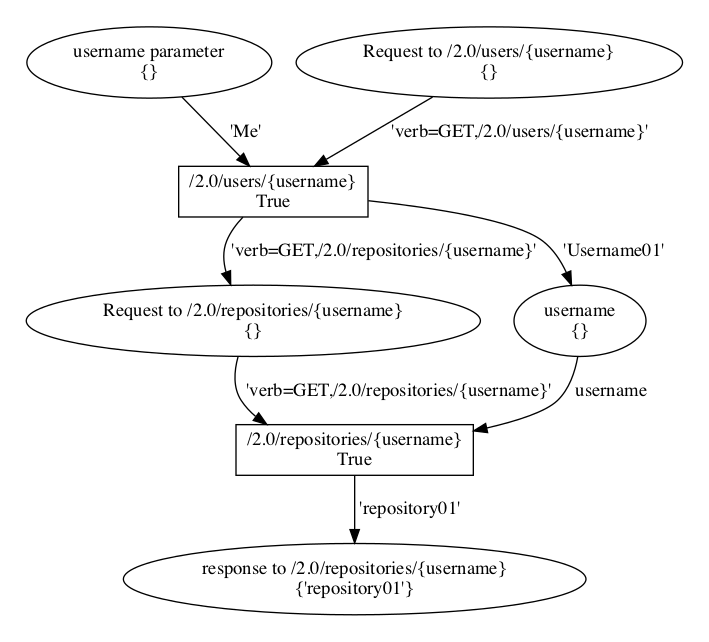
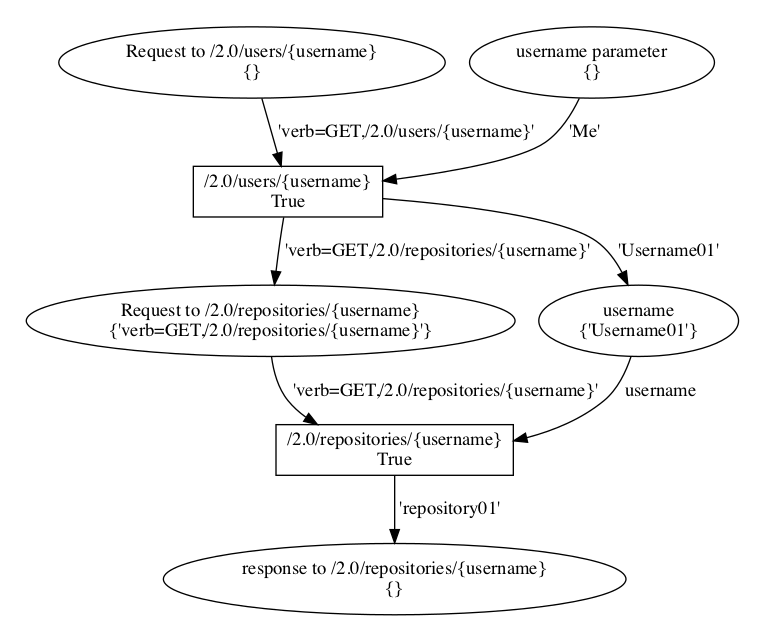
feat: create POC to JuiceShop example

diff --git a/snakes_juice_shop_01.py b/snakes_juice_shop_01.py
@@ -1,0 +1,146 @@
+import json
+from coloured_token import ColouredToken
+from numpy import place
+from log_utils import LogUtils
+import snakes.plugins
+snakes.plugins.load("gv", "snakes.nets", "nets")
+from nets import *
+
+
+# Instruções no livro Web Scraping com Pyhton
+# source venv/bin/activate
+
+# loading log
+logs_file = open('logs/combined_login.json')
+logs_json = json.load(logs_file)
+logs_file.close()
+
+def create_transition_and_basic_places(petri_net, uri_login):
+    place_req = Place("Req-"+uri_login, [])
+
+    # creating transition
+    transition =  Transition(uri_login)
+
+    # creating outputs to the transition
+    place_status = Place("Status-"+uri_login, [])
+
+    # conecting places to the transtion
+    petri_net.add_place(place_req)
+    petri_net.add_place(place_status)
+    petri_net.add_transition(transition)
+    petri_net.add_input(place_req.name, transition.name, Variable("request"))
+    petri_net.add_output(place_status.name, transition.name, Variable("status"))
+
+    return transition
+
+
+def create_petri_net():
+    # constants
+    uri_login =  "/rest/user/login"
+
+    petri_net = PetriNet('Juice Shop')
+    
+    # transition 1
+    # creating basic structure
+    transition_1 = create_transition_and_basic_places(petri_net, uri_login)
+
+    # creating inputs to the transition 1
+    place_input_email = Place("email", [])
+    place_input_password = Place("password", [])
+
+    # creating outputs to the transition 1
+    place_output_authentication = Place("authentication", [])
+    place_input_output_bid = Place("bid", [])
+
+    # conecting places to the transtion 1
+    petri_net.add_place(place_input_email)
+    petri_net.add_place(place_input_password)
+    petri_net.add_place(place_output_authentication)
+    petri_net.add_place(place_input_output_bid)
+
+    petri_net.add_input(place_input_email.name, transition_1.name, Variable("email"))
+    petri_net.add_input(place_input_password.name, transition_1.name, Variable("password"))
+    petri_net.add_output(place_output_authentication.name, transition_1.name, Variable("authentication"))
+    petri_net.add_output(place_input_output_bid.name, transition_1.name, Expression("authentication.get_element_from_dict('bid')"))
+
+    # transition 2
+    uri_login =  "/rest/basket/{basketId}"
+    transition_2 = create_transition_and_basic_places(petri_net, uri_login)
+    petri_net.add_input(place_input_output_bid.name, transition_2.name, Variable("email"))
+
+    return petri_net, transition_1
+
+# return true if the URIs are the same
+# ex: "/rest/basket/6" and "/rest/basket/{basketId}"
+def compare_uri_with_model(model_uri, uri):
+    model_uri_splited = model_uri.split('/')
+    uri_splited = uri.split('/')
+    if (len(model_uri_splited) == len(uri_splited)):
+        for i in range(len(model_uri_splited)):
+            if (model_uri_splited[i] != uri_splited[i]):
+                if not ('{' in model_uri_splited[i]):
+                    return False
+    else:
+        return False
+
+
+    return True
+
+
+def get_place_by_name(petri_net, name):
+    return [x for x in petri_net.place() if x.name == name][0]
+
+
+def fill_input_places(petri_net, log_json):
+    if (log_json.get('uri') in [x.name for x in petri_net.transition()]):
+        place_req_name='Req-'+log_json.get('uri')
+        #place = [x for x in petri_net.place() if x.name == place_req_name][0]
+        place = get_place_by_name(petri_net, place_req_name)
+        #place.tokens.add(json.dumps(LogUtils.create_request_line_from_log(log_json)))
+        place.tokens.add(ColouredToken(LogUtils.create_request_line_from_log(log_json)))
+
+        # given a transistion, check if we have some input to set
+        request_body_parameter_names = [*log_json.get('requestBody').keys()] # convert dict to array
+        transition = [x for x in petri_net.transition() if x.name == log_json.get('uri')][0]
+        places = transition.input()
+        for parameter_name in request_body_parameter_names:
+            for place in places:
+                if place[0].name == parameter_name:
+                    place[0].add(ColouredToken(LogUtils.create_data_from_log(log_json, parameter_name)))
+                    continue
+    else:
+        for transition in petri_net.transition():
+            if (compare_uri_with_model(transition.name, log_json.get('uri') )):
+                place_req_name='Req-'+transition.name
+                place = get_place_by_name(petri_net, place_req_name)
+                place.tokens.add(ColouredToken(LogUtils.create_request_line_from_log(log_json)))
+    
+
+
+
+def main():
+    petri_net, transition_1 = create_petri_net()
+    petri_net.draw("value-0.png")
+    
+    #for log_json in logs_json:
+    #    fill_input_places(petri_net, log_json)
+    log_line = logs_json[1]
+    fill_input_places(petri_net, log_line)
+    #fill_input_places(petri_net, logs_json[3])
+
+    petri_net.draw("value-0.png")
+
+    request_line = ColouredToken(LogUtils.create_request_line_from_log(log_line))
+    response_status = ColouredToken(LogUtils.create_response_status_from_log(log_line))
+    email=ColouredToken(LogUtils.create_data_from_log(log_line, 'email'))
+    password=ColouredToken(LogUtils.create_data_from_log(log_line, 'password'))
+    authentication = ColouredToken(LogUtils.create_response_data_from_log(log_line, 'authentication'))
+
+    import ipdb; ipdb.set_trace()
+
+    transition_1.fire(Substitution(request=request_line, email=email, password=password, status=response_status, authentication=authentication))
+    petri_net.draw("value-0.png")
+
+
+if __name__ == "__main__":
+    main()

diff --git a/snakes_link_example-01.py b/snakes_link_example-01.py
@@ -30,7 +30,7 @@ consumer_response = "response to " + consumer_uri
 
 # References: https://www.ibisc.univ-evry.fr/~fpommereau/SNAKES/index.html
 
-def factory (cons, prod, init_producer_request=[], init_producer_parameter=[]) :
+def factory (input_consumidor, output_consumidor, output_produtor, init_producer_request=[], init_producer_parameter=[]) :
     n = PetriNet("N")
 
     # /2.0/users/{username}
@@ -49,26 +49,32 @@ def factory (cons, prod, init_producer_request=[], init_producer_parameter=[]) :
     n.add_place(Place(producer_response, []))
     # conections
     n.add_input(producer_request, producer_uri, Value(producer_verb_key+producer_uri))
-    n.add_input(producer_parameter, producer_uri, cons)
+    n.add_input(producer_parameter, producer_uri, input_consumidor)
 
     n.add_output(consumer_request, producer_uri, Value(producer_verb_key+consumer_uri))
-    n.add_output(producer_response, producer_uri, cons)
+    n.add_output(producer_response, producer_uri, output_consumidor)
 
     # /2.0/repositories/{username}
     n.add_place(Place(consumer_response, []))
     t1 = Transition(consumer_uri)
     n.add_transition(t1)
     n.add_input(consumer_request, consumer_uri, Value(consumer_verb_key+consumer_uri))
-    n.add_input(producer_response, consumer_uri, cons)
-    n.add_output(consumer_response, consumer_uri, prod)
+    n.add_input(producer_response, consumer_uri, output_consumidor)
+    n.add_output(consumer_response, consumer_uri, output_produtor)
 
     return n, [t0, t1]
 
 # source venv/bin/activate
 # python3 snakes_crAPI-01.py
 def main():
-    # create the petri net
-    net, transitions = factory(Variable("username"), Value("repository"), producer_verb_key+producer_uri, "Username01")
+    # create the petri net without start values
+    net, transitions = factory(Variable("username"), Variable("username"), Value("repository"), [],[])
+    net.draw("value-0.png")
+    import ipdb;
+    ipdb.set_trace()
+
+
+    net, transitions = factory(Value("Me"), Variable("username"), Value("repository"), producer_verb_key+producer_uri, "Me")
     net.draw("value-0.png")
     import ipdb; ipdb.set_trace()
 
@@ -78,7 +84,13 @@ def main():
 
     # given the request-response "/2.0/users/{username}"
     try:
-        transitions[1].fire(Substitution(username="Username99"))
+        transitions[1].fire(Substitution(username="Username01"))
+
+        # transitions[1].fire(Substitution(username="Username99"))
+
+
+
+
     except:
         print("IDOR Attack Detected")
     net.draw("value-2.png")

diff --git a/coloured_token.py b/coloured_token.py
@@ -1,0 +1,41 @@
+import json
+
+class ColouredToken:
+
+    def get_dict (self):
+        return json.loads(self.json_dict)
+
+    def check_if_contains_attribute(self, object, element):
+        #import ipdb; ipdb.set_trace()
+        for (key, value) in object.items():
+            if key == element:
+                return str(value)
+            elif isinstance(value, dict):
+                return self.check_if_contains_attribute(value, element)
+            
+        return None
+
+
+
+    def get_element_from_dict (self, element):
+        return self.check_if_contains_attribute(self.get_dict(), element)
+
+    def __init__ (self, value) :
+        self.json_dict = json.dumps(value)
+
+    def __str__ (self) :
+        return self.json_dict
+
+    def __repr__ (self) :
+        return self.__str__()
+
+    def __eq__(self, other):
+        if self.__str__() == other.__str__():
+            return True
+        return False
+
+    def __hash__(self):
+        return hash(self.json_dict)
+
+
+    

diff --git a/log_utils.py b/log_utils.py
@@ -1,0 +1,32 @@
+
+class LogUtils:
+    
+    @staticmethod
+    def create_data_from_log(log_json, parameter):
+        return {
+            parameter:log_json.get('requestBody').get(parameter),  
+            'id':log_json.get('ip')
+            }
+        
+    @staticmethod
+    def create_request_line_from_log(log_json):
+        return {
+            'uri':log_json.get('uri'), 
+            'method':log_json.get('method'), 
+            'id':log_json.get('ip')
+            }
+
+    @staticmethod
+    def create_response_status_from_log(log_json):
+        return {
+            'statusCode':log_json.get('statusCode'), 
+            'id':log_json.get('ip')
+            }
+
+    @staticmethod
+    def create_response_data_from_log(log_json, parameter):
+        return {
+            parameter:log_json.get('responseBody').get(parameter), 
+            'id':log_json.get('ip')
+            }    
+ 

diff --git a/snakes_link_example-02.py b/snakes_link_example-02.py
@@ -126,8 +126,8 @@ def main():
 
     # fire transition
     try:
-        #transitions[1].fire(Substitution(username="Username99"))
-        transitions[1].fire(Substitution(username="Username01"))
+        transitions[1].fire(Substitution(username="Username99"))
+        #transitions[1].fire(Substitution(username="Username01"))
     except:
         print("IDOR Attack Detected")
 
